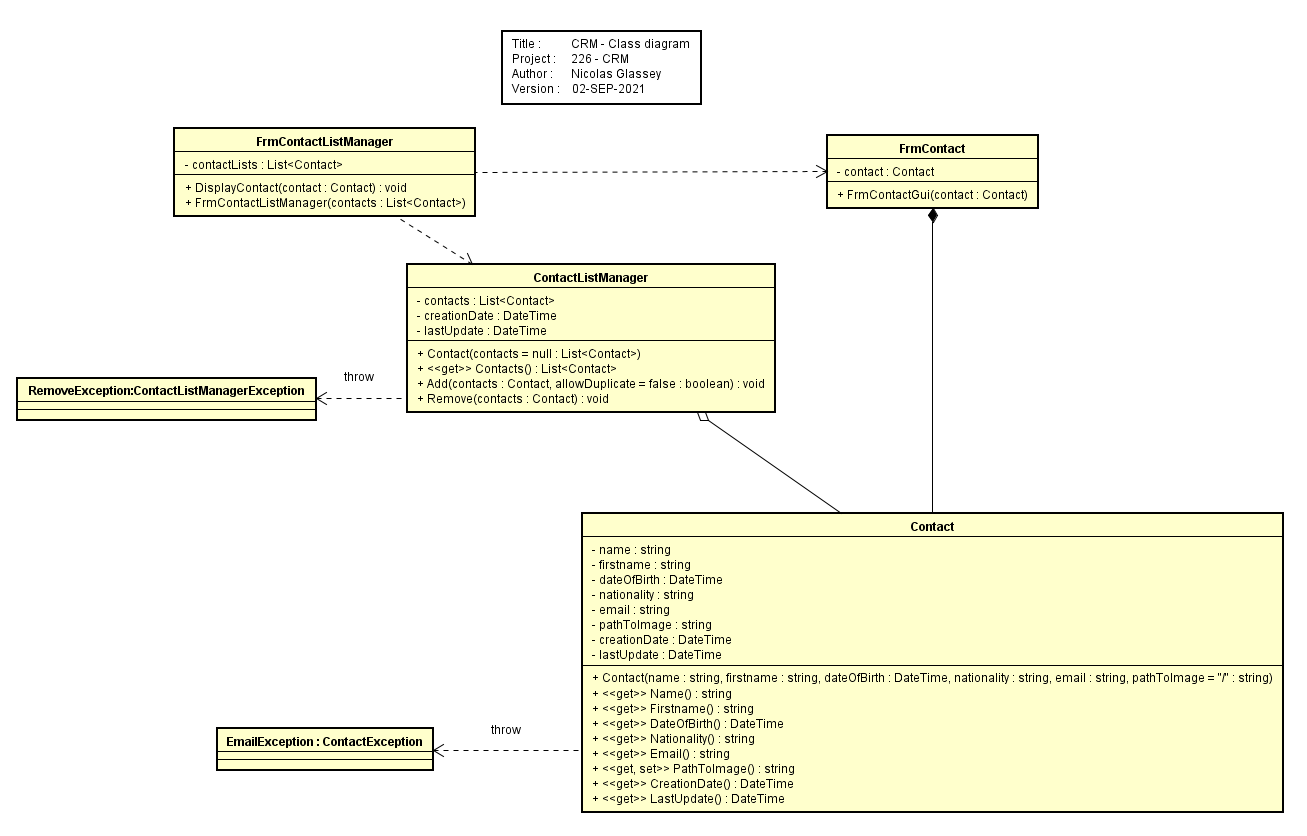
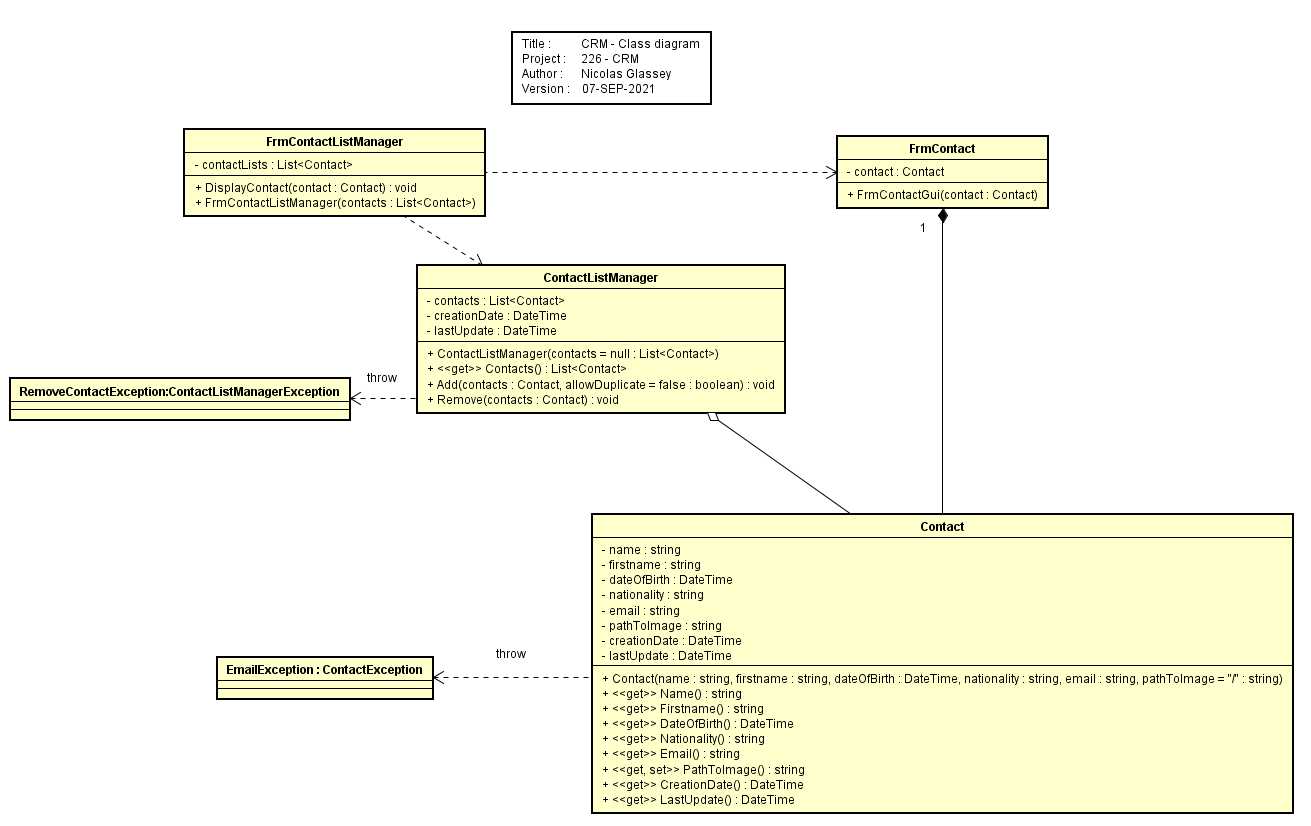
Exception - ready to code

diff --git a/Model/TestModel/TestContact.cs b/Model/TestModel/TestContact.cs
@@ -28,6 +28,22 @@ namespace CrmBusiness
         }
 
         [Test]
+        public void Contact_EmailWrongValue_ThrowInvalideEmailValueException()
+        {
+            //given
+            //refere to Setup method
+            string expectedEmailAddresss = "mathieu.ricard_monk.org";
+
+            //when + then
+            Assert.Throws<InvalideEmailValueException>(delegate
+            {
+                new Contact(_name, _firstname, _dateOfBirth, _nationality, expectedEmailAddresss);
+            }
+            );
+        }
+
+
+        [Test]
         public void Name_GetValue_Success()
         {
             //given

diff --git a/Model/TestModel/TestContactListManager.cs b/Model/TestModel/TestContactListManager.cs
@@ -206,5 +206,16 @@ namespace CrmBusiness
                 Assert.AreEqual(expectedContacts[i].Email, actualContacts[i].Email);
             }
         }
+
+        [Test]
+        public void Remove_EmptyContactsList_ThrowRemoveContactException()
+        {
+            //given
+            //refere to Setup method
+            _contactListManager = new ContactListManager();
+
+            //when + then
+            Assert.Throws<RemoveContactException>(delegate { _contactListManager.Remove(_listOfContactsInitial); });
+        }
     }
 }

diff --git a/Model/Contact.cs b/Model/Contact.cs
@@ -147,3 +147,7 @@ namespace CrmBusiness
         #endregion private methods
     }
 }
+
+public class ContactException : Exception { }
+
+public class InvalideEmailValueException : ContactException { }

diff --git a/Model/ContactListManager.cs b/Model/ContactListManager.cs
@@ -69,3 +69,7 @@ namespace CrmBusiness
 
     }
 }
+
+public class ContactListManager : Exception { }
+
+public class RemoveContactException : ContactListManager { }
